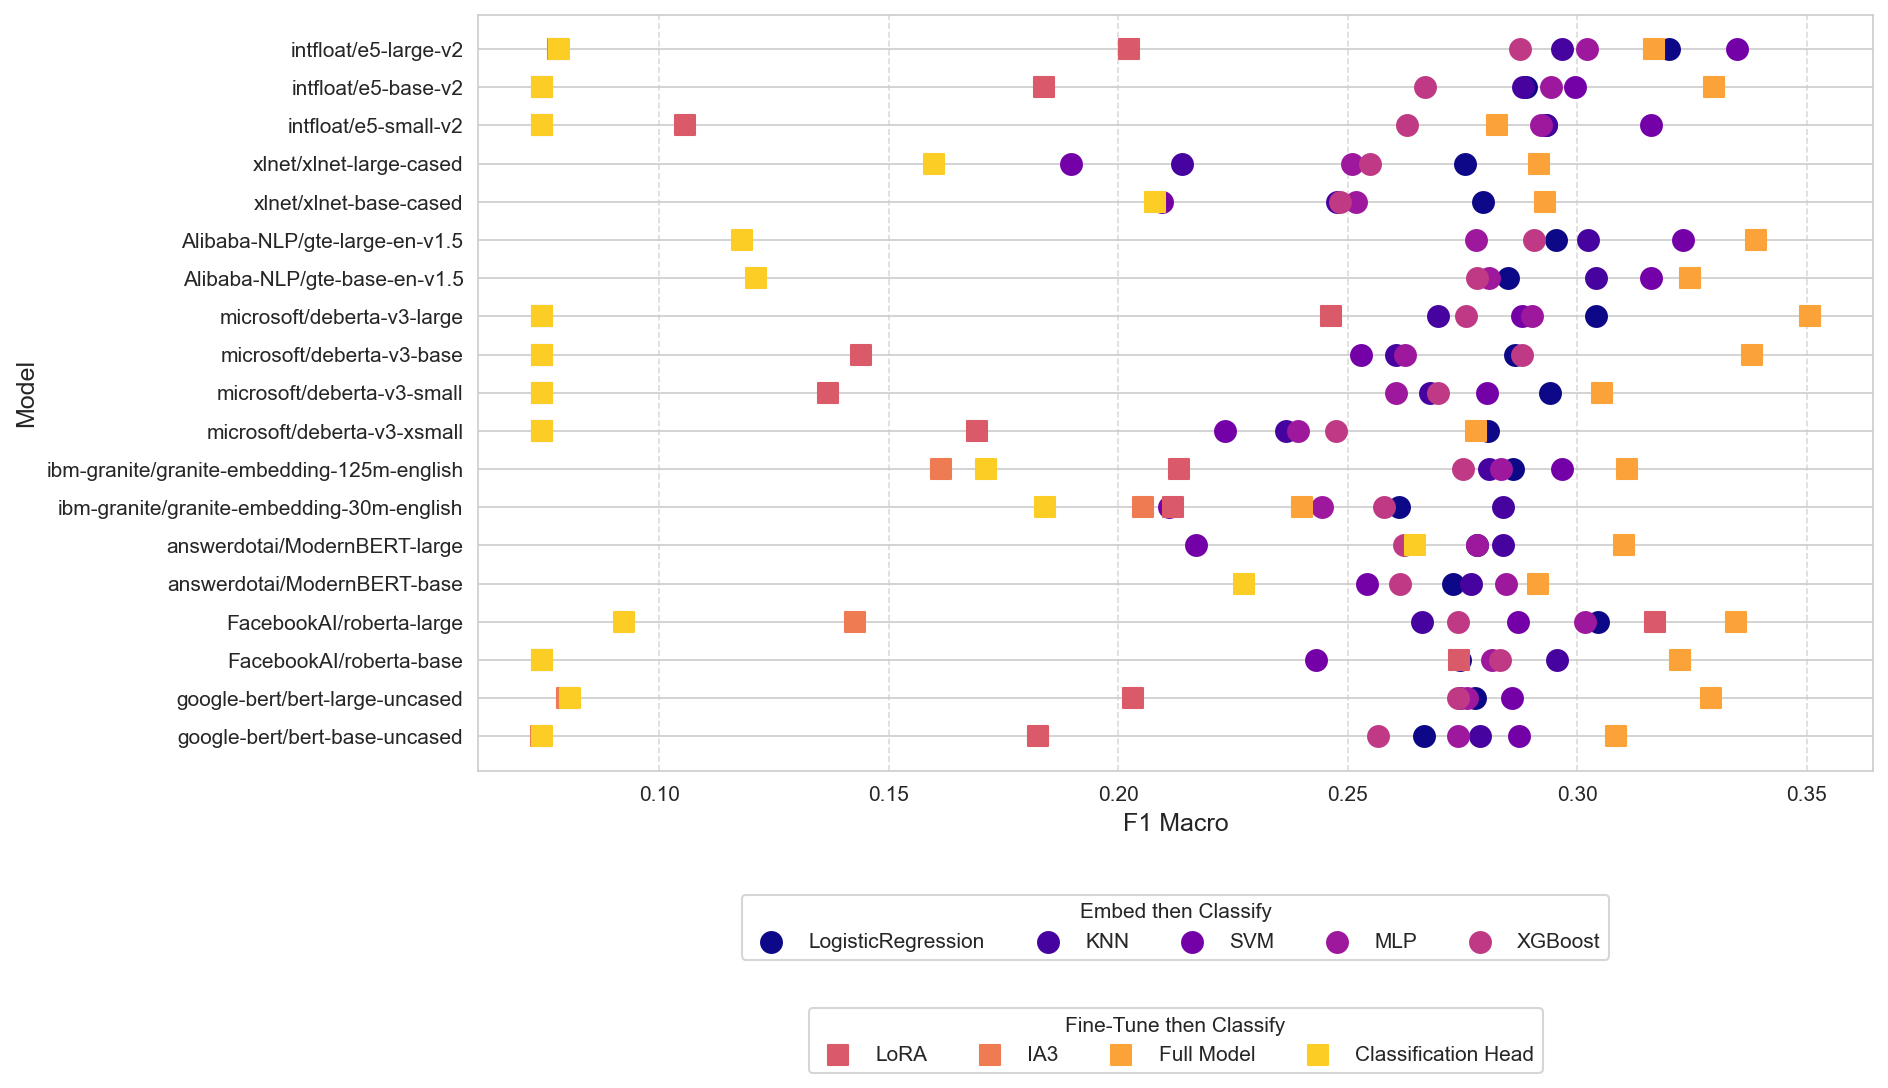
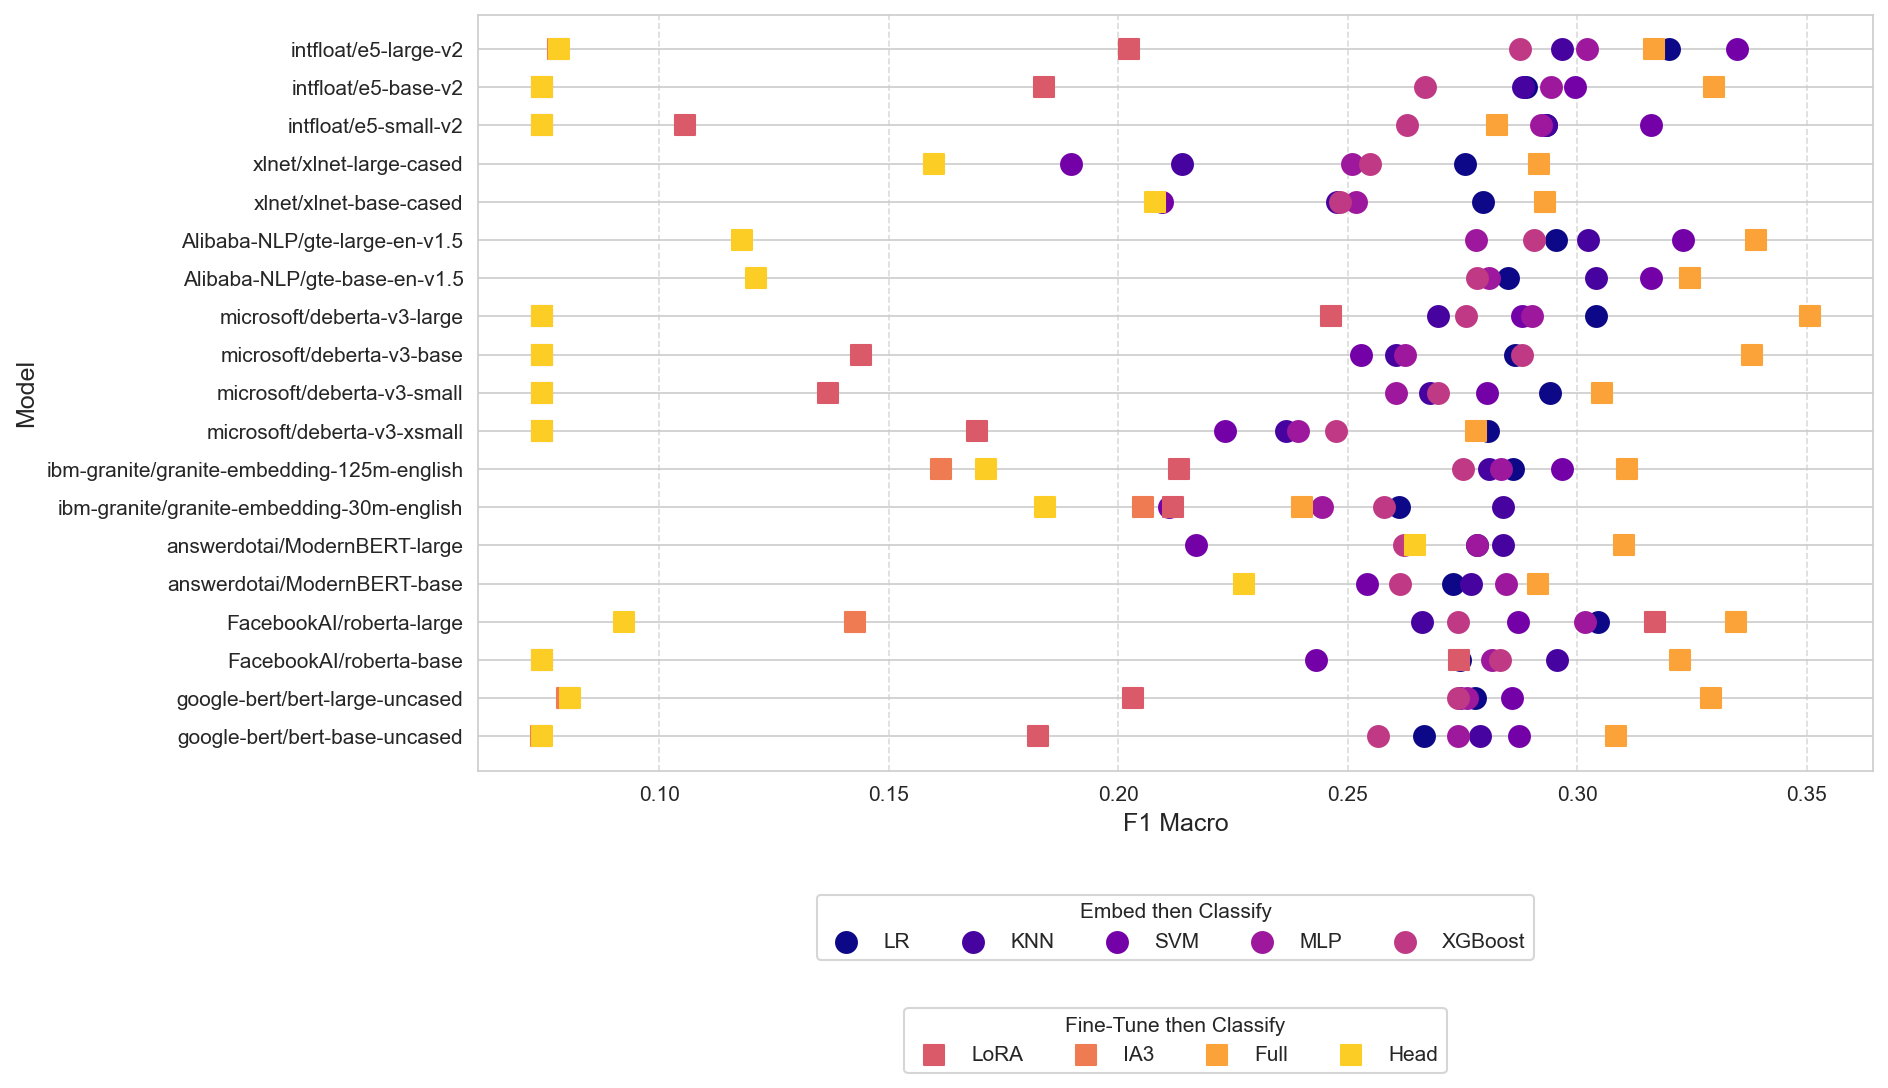
Update visualizations

diff --git a/Code/visualizations.py b/Code/visualizations.py
@@ -10,11 +10,20 @@ def plot_metric_comparison(embed_results, finetune_results, metric, output_path,
     strategy_names = {
         "lora": "LoRA",
         "ia3": "IA3",
-        "full_fine_tuning": "Full Model",
-        "head_only": "Classification Head"
+        "full_fine_tuning": "Full",
+        "head_only": "Head"
+    }
+
+    classifier_names = {
+        "LogisticRegression": "LR",
+        "KNN": "KNN",
+        "SVM": "SVM",
+        "MLP": "MLP",
+        "XGBoost": "XGBoost"
     }
 
     finetune_results['Strategy'] = finetune_results['Strategy'].map(strategy_names)
+    embed_results['Classifier'] = embed_results['Classifier'].map(classifier_names)
 
     classifiers = embed_results['Classifier'].unique()
     strategies = finetune_results['Strategy'].unique()
@@ -98,11 +107,20 @@ def plot_ablation_study(embed_results, finetune_results, metric, output_path, da
     strategy_names = {
         "lora": "LoRA",
         "ia3": "IA3",
-        "full_fine_tuning": "Full Model",
-        "head_only": "Classification Head"
+        "full_fine_tuning": "Full",
+        "head_only": "Head"
+    }
+
+    classifier_names = {
+        "LogisticRegression": "LR",
+        "KNN": "KNN",
+        "SVM": "SVM",
+        "MLP": "MLP",
+        "XGBoost": "XGBoost"
     }
 
     finetune_results['Strategy'] = finetune_results['Strategy'].map(strategy_names)
+    embed_results['Classifier'] = embed_results['Classifier'].map(classifier_names)
 
     # Filter for base/125 models
     base_models = [model for model in embed_results['EmbeddingModel'].unique()
@@ -174,14 +192,14 @@ metrics = ['Accuracy', 'F1_Micro', 'F1_Macro', 'F1_Weighted']
 dataset_name = 'Government_Documents'
 os.makedirs('Results/images', exist_ok=True)
 
-# for metric in metrics:
-#     embed_results = pd.read_csv(f'Results/{dataset_name}/embedding_classification_ablation.csv')
-#     finetune_results = pd.read_csv(f'Results/{dataset_name}/fine_tuning_classification_ablation.csv')
+for metric in metrics:
+    embed_results = pd.read_csv(f'Results/{dataset_name}/embedding_classification_ablation.csv')
+    finetune_results = pd.read_csv(f'Results/{dataset_name}/fine_tuning_classification_ablation.csv')
 
-#     plot_ablation_study(
-#         embed_results,
-#         finetune_results,
-#         metric,
-#         f'Results/{dataset_name}/images/ablation_{metric.lower()}_comparison.png',
-#         dataset_name
-#     )
+    plot_ablation_study(
+        embed_results,
+        finetune_results,
+        metric,
+        f'Results/{dataset_name}/images/ablation_{metric.lower()}_comparison.png',
+        dataset_name
+    )
